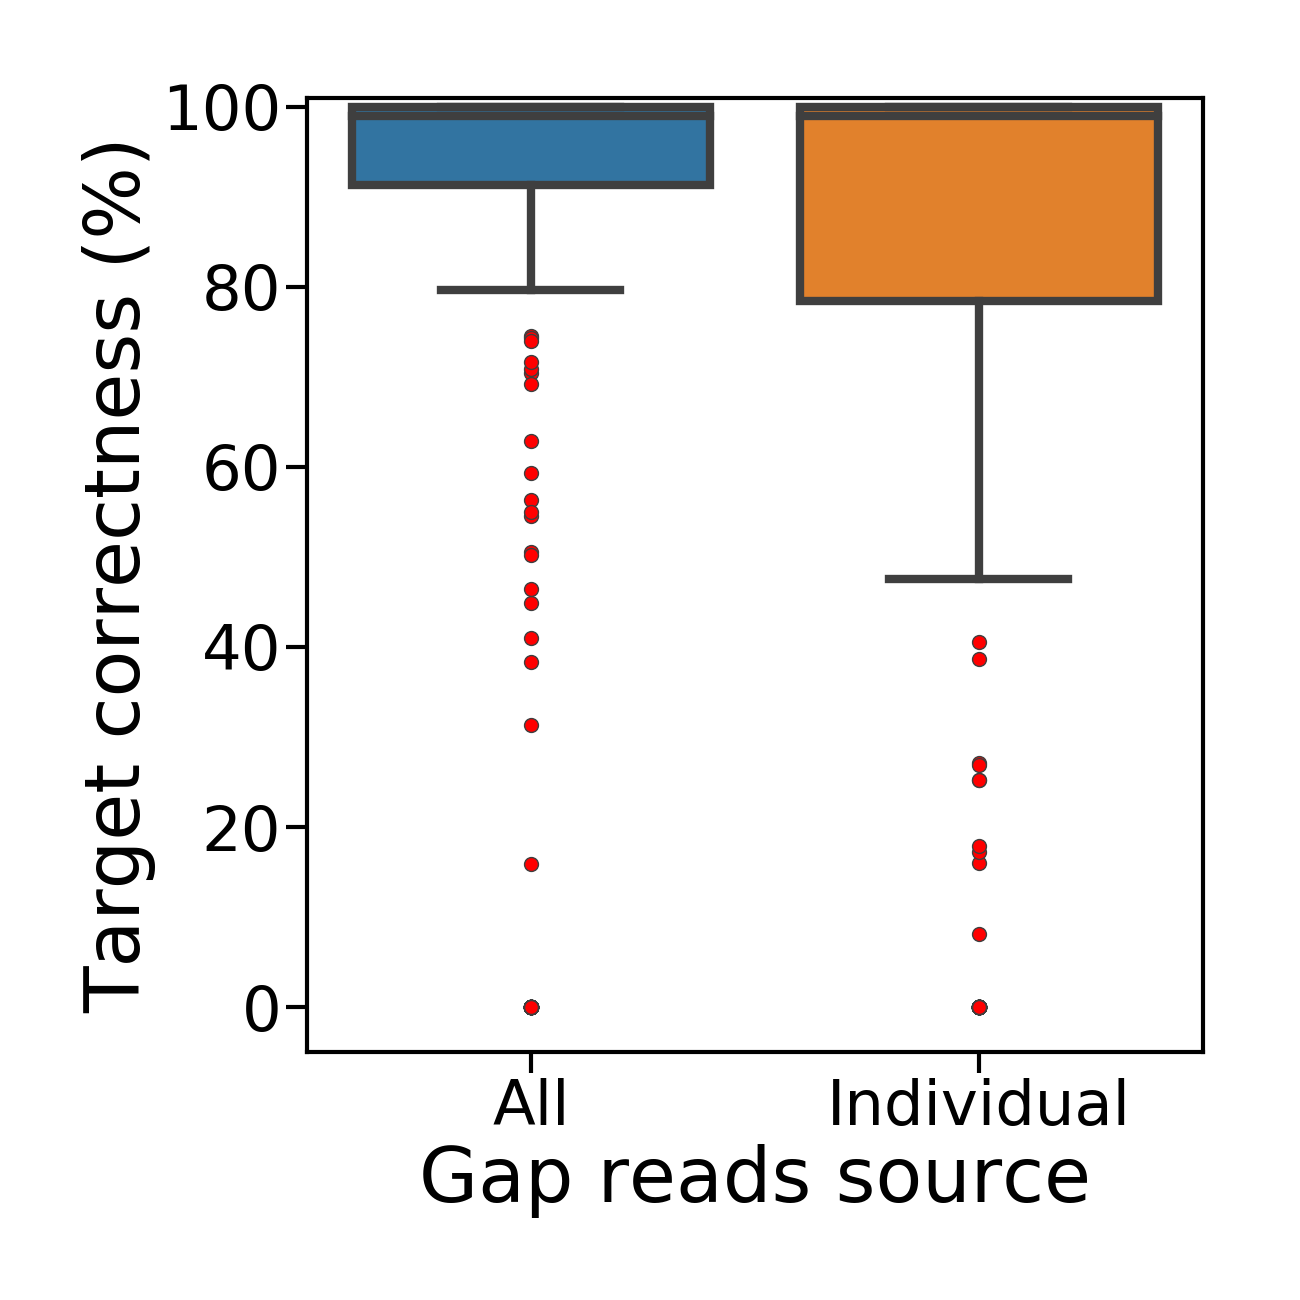
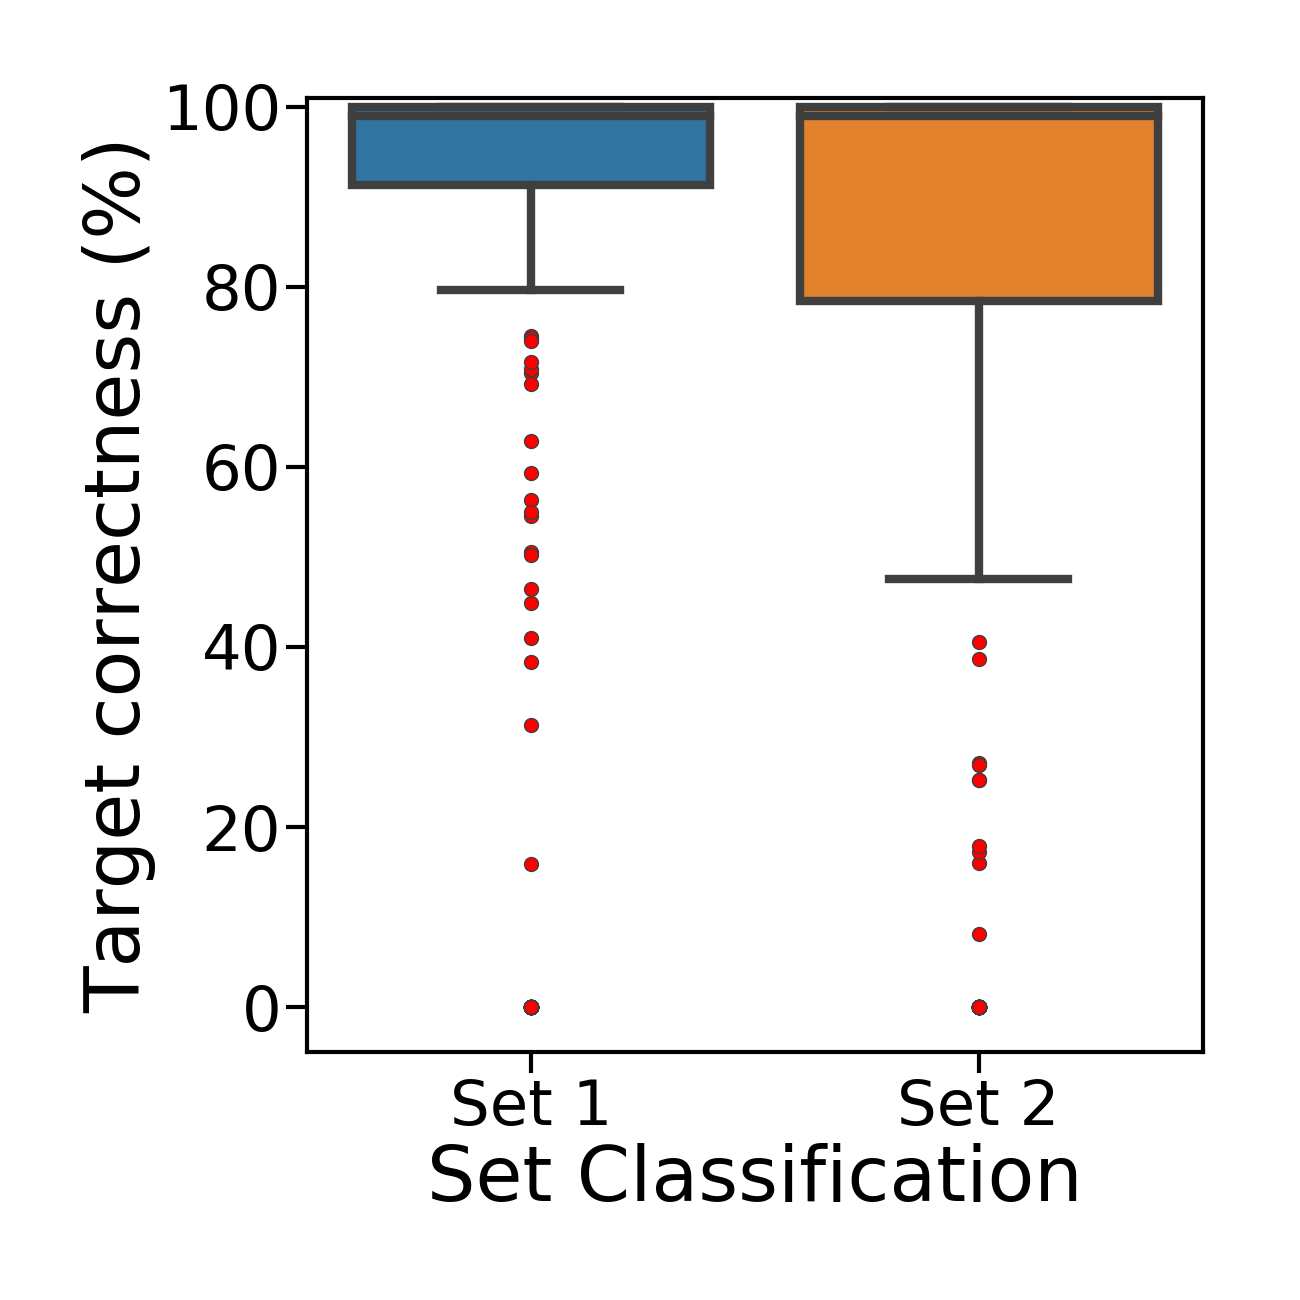
Name the x axis more appropriately
I didn't catch this sooner but I don't think
 the original name was accurate... we didn't
do anything with regards to comparing gap
reads source

Changed region(s): [[0.3077, 0.8308, 0.8923, 0.9538]]

diff --git a/lib/data/helper_scripts/data_crunching/wrangle_gappadder.py b/lib/data/helper_scripts/data_crunching/wrangle_gappadder.py
@@ -48,7 +48,7 @@ def plot_box(data, file_path):
     ax = sns.boxplot(data=data, x="fixed_status", y="target_correctness", linewidth=linewidth, flierprops=flierprops)
     ax.set_xticklabels(ax.get_xticklabels(), rotation=rotation)
     plt.ylim((-5, 101))
-    plt.xlabel('Gap reads source')
+    plt.xlabel('Set Classification')
     plt.ylabel('Target correctness (%)')
 
     plt.tight_layout()
@@ -67,10 +67,10 @@ fixed = columns_to_plot[(columns_to_plot.is_fixed == 1)]
 unfixed = columns_to_plot[(columns_to_plot.is_fixed == 0)]
 joined_fixed = pd.merge(fixed, gap_fill_df, on=["gap_id", "is_fixed"], how="right")
 joined_fixed = joined_fixed[~np.isnan(joined_fixed.target_correctness)]
-joined_fixed["fixed_status"] = "All"
+joined_fixed["fixed_status"] = "Set 1"
 joined_unfixed = pd.merge(unfixed, gap_fill_df, on=["gap_id", "is_fixed"], how="right")
 joined_unfixed = joined_unfixed[~np.isnan(joined_unfixed.target_correctness)]
-joined_unfixed["fixed_status"] = "Individual"
+joined_unfixed["fixed_status"] = "Set 2"
 full_data = joined_fixed.append(joined_unfixed, ignore_index=True)
 
 delimiter = utils.get_terminal_directory_character()

diff --git a/lib/data/helper_scripts/data_crunching/wrangle_sealer.py b/lib/data/helper_scripts/data_crunching/wrangle_sealer.py
@@ -48,7 +48,7 @@ def plot_box(data, file_path):
     ax = sns.boxplot(data=data, x="fixed_status", y="target_correctness", linewidth=linewidth, flierprops=flierprops)
     ax.set_xticklabels(ax.get_xticklabels(), rotation=rotation)
     plt.ylim((-5, 101))
-    plt.xlabel('Gap reads source')
+    plt.xlabel('Set Classification')
     plt.ylabel('Target correctness (%)')
 
     plt.tight_layout()
@@ -67,10 +67,10 @@ fixed = columns_to_plot[(columns_to_plot.is_fixed == 1)]
 unfixed = columns_to_plot[(columns_to_plot.is_fixed == 0)]
 joined_fixed = pd.merge(fixed, gap_fill_df, on=["gap_id", "is_fixed"], how="right")
 joined_fixed = joined_fixed[~np.isnan(joined_fixed.target_correctness)]
-joined_fixed["fixed_status"] = "All"
+joined_fixed["fixed_status"] = "Set 1"
 joined_unfixed = pd.merge(unfixed, gap_fill_df, on=["gap_id", "is_fixed"], how="right")
 joined_unfixed = joined_unfixed[~np.isnan(joined_unfixed.target_correctness)]
-joined_unfixed["fixed_status"] = "Individual"
+joined_unfixed["fixed_status"] = "Set 2"
 full_data = joined_fixed.append(joined_unfixed, ignore_index=True)
 
 delimiter = utils.get_terminal_directory_character()
